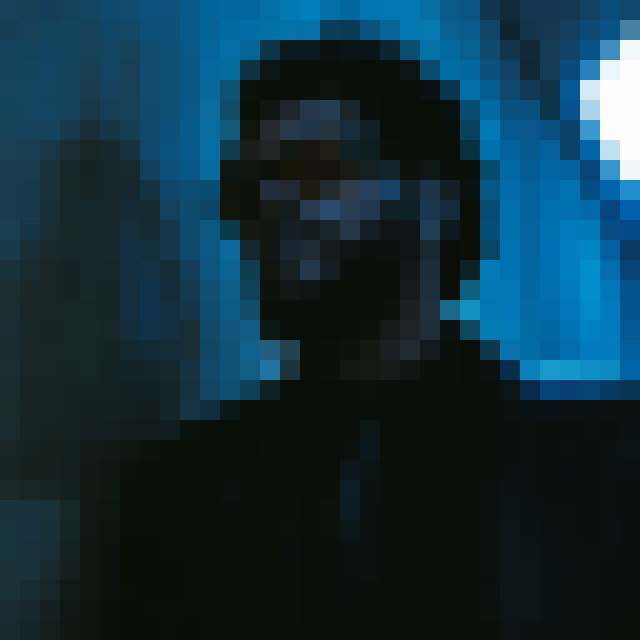
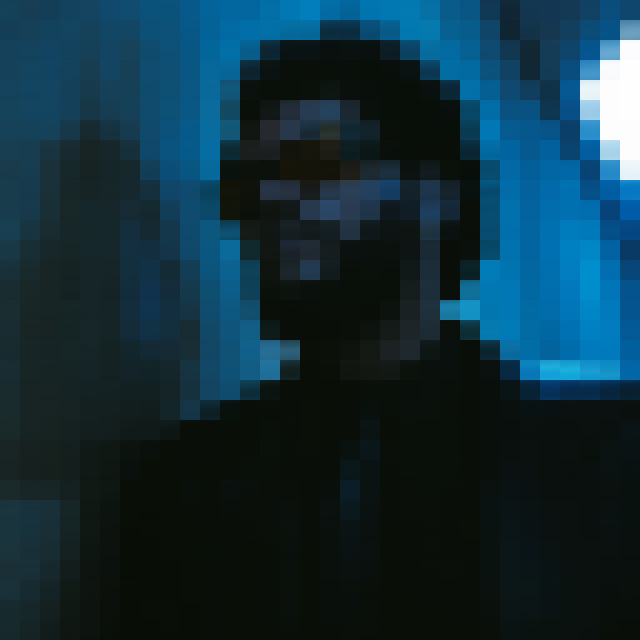
Added different way to process image, optimized image processing calculations.

diff --git a/src/img/processor.cpp b/src/img/processor.cpp
@@ -1,22 +1,40 @@
 
-#include "img/process.h"
+#include "img/processor.h"
 #include "img/utility.h"
 
 namespace img {
 
-    process::process(const std::string &filepath) : im(filepath) {
+    // Global functions.
+    [[nodiscard]] inline std::string get_output_directory() {
+        static std::string output_directory = convert_to_native_separators("assets/generated");
+        return output_directory; // Copy.
     }
 
-    process::process(const image &im) : im(im) {
+    [[nodiscard]] inline glm::vec4 get_average_color(const image& im, int x, int y, int x_resolution, int y_resolution) {
+        glm::vec4 data(0.0f);
+
+        // Average values in one "pixel".
+        for (int j = 0; j < y_resolution; ++j) {
+            for (int i = 0; i < x_resolution; ++i) {
+                data += im.get_pixel(x + i, y + j);
+            }
+        }
+        data /= (float) (x_resolution * y_resolution);
+
+        return data;
     }
 
-    process::~process() = default;
 
-    image process::get() const {
+    processor::processor(const image &im) : im(im) {
+    }
+
+    processor::~processor() = default;
+
+    image processor::get() const {
         return im;
     }
 
-    process &process::to_grayscale() {
+    processor &processor::to_grayscale() {
         // Luminosity constants.
         static const float r_weight = 0.299f;
         static const float g_weight = 0.587f;
@@ -45,72 +63,78 @@ namespace img {
         return *this;
     }
 
-    process &process::to_lower_resolution(int rows, int columns) {
+    processor &processor::to_lower_resolution(int x_resolution, int y_resolution) {
         int width = im.width;
         int height = im.height;
         int channels = im.channels;
 
-
         // Invalid dimensions.
-        if (rows < 0 || columns < 0) {
+        if (x_resolution < 0 || y_resolution < 0) {
             std::cerr << "Invalid image dimensions passed to to_lower_resolution()." << std::endl;
             return *this;
         }
 
-        for (int y = 0; y <= height - columns; y += columns) {
-            for (int x = 0; x <= width - rows; x += rows) {
+        glm::vec4 data;
+
+        for (int y = 0; y <= height - y_resolution; y += y_resolution) {
+            for (int x = 0; x <= width - x_resolution; x += x_resolution) {
+                data = get_average_color(im, x, y, x_resolution, y_resolution);
+
                 // Fill pixel data to be the same color.
-                for (int j = 0; j < columns; ++j) {
-                    for (int i = 0; i < rows; ++i) {
-                        im.set_pixel(x + i, y + j, get_average_color(x, y, rows, columns));
+                for (int j = 0; j < y_resolution; ++j) {
+                    for (int i = 0; i < x_resolution; ++i) {
+                        im.set_pixel(x + i, y + j, data);
                     }
                 }
             }
         }
 
         // In case resolution didn't divide evenly.
-        int x_remainder = width % rows;
-        int y_remainder = height % columns;
+        int x_remainder = width % x_resolution;
+        int y_remainder = height % y_resolution;
 
         // Right side of image.
-        for (int y = 0; y < height - columns; y += columns) {
+        for (int y = 0; y < height - y_resolution; y += y_resolution) {
+            data = get_average_color(im, width - x_remainder, y, x_remainder, y_resolution);
+
             // Fill pixel data to be the same color.
-            for (int j = 0; j < columns; ++j) {
+            for (int j = 0; j < y_resolution; ++j) {
                 for (int i = 0; i < x_remainder; ++i) {
-                    im.set_pixel(width - x_remainder + i, y + j,
-                                 get_average_color(width - x_remainder, y, rows, columns));
+                    im.set_pixel(width - x_remainder + i, y + j, data);
                 }
             }
         }
 
         // Bottom side of image.
-        for (int x = 0; x < width - rows; x += rows) {
+        for (int x = 0; x < width - x_resolution; x += x_resolution) {
+            data = get_average_color(im, x, height - y_remainder, x_resolution, y_remainder);
+
             // Fill pixel data to be the same color.
             for (int j = 0; j < y_remainder; ++j) {
-                for (int i = 0; i < rows; ++i) {
-                    im.set_pixel(x + i, height - y_remainder + j,
-                                 get_average_color(x, height - y_remainder, rows, columns));
+                for (int i = 0; i < x_resolution; ++i) {
+                    im.set_pixel(x + i, height - y_remainder + j, data);
                 }
             }
         }
 
         // Bottom right corner.
+        data = get_average_color(im, width - x_remainder, height - y_remainder, x_remainder, y_remainder);
+
+        // Fill pixel data to be the same color.
         for (int j = 0; j < y_remainder; ++j) {
             for (int i = 0; i < x_remainder; ++i) {
-                im.set_pixel(width - x_remainder + i, height - y_remainder + j,
-                             get_average_color(width - x_remainder, height - y_remainder, rows, columns));
+                im.set_pixel(width - x_remainder + i, height - y_remainder + j, data);
             }
         }
 
         // Update naming.
-        std::string filename = get_output_directory() + "/" + im.file.name + '_' + std::to_string(rows) + 'x' +
-                               std::to_string(columns) + "px" + '.' + im.file.extension;
+        std::string filename = get_output_directory() + "/" + im.file.name + '_' + std::to_string(x_resolution) + 'x' + std::to_string(y_resolution) + "px" + '.' + im.file.extension;
         im.file = file_data(filename);
 
         return *this;
     }
 
-    std::string process::to_ascii(int resolution) {
+    std::string processor::to_ascii(int resolution) {
         int width = im.width;
         int height = im.height;
 
@@ -119,9 +143,9 @@ namespace img {
         std::size_t num_characters = sequence.size();
         std::string ascii;
 
-        process copy = *this;
+        processor copy = *this;
 
-        image lower_resolution_image = process(im).to_lower_resolution(resolution, resolution).get();
+        image lower_resolution_image = processor(im).to_lower_resolution(resolution, resolution).get();
 
         for (int y = 0; y < height; y += 2 * resolution) {
             for (int x = 0; x < width; x += resolution) {
@@ -136,7 +160,7 @@ namespace img {
         return ascii;
     }
 
-    process &process::k_means(int k) {
+    processor &processor::k_means(int k) {
         int width = im.width;
         int height = im.height;
 
@@ -155,25 +179,6 @@ namespace img {
             int index = random(0, static_cast<int>(unique_colors.size()));
             centroids.emplace_back(*std::next(unique_colors.begin(), index));
         }
-    }
-
-    std::string process::get_output_directory() const {
-        static std::string output_directory = convert_to_native_separators("assets/generated");
-        return output_directory; // Copy.
-    }
-
-    glm::vec4 process::get_average_color(int x, int y, int rows, int columns) const {
-        glm::vec4 data(0.0f);
-
-        // Average pixels in one "pixel".
-        for (int j = 0; j < columns; ++j) {
-            for (int i = 0; i < rows; ++i) {
-                data += im.get_pixel(x + i, y + j);
-            }
-        }
-        data /= (float) (rows * columns);
-
-        return data;
     }
 
 }

diff --git a/lib/stb/stb_image.h b/lib/stb/stb_image.h
@@ -133,7 +133,7 @@ RECENT REVISION HISTORY:
 // Basic usage (see HDR discussion below for HDR usage):
 //    int x,y,n;
 //    unsigned char *data = stbi_load(filename, &x, &y, &n, 0);
-//    // ... process data if not NULL ...
+//    // ... processor data if not NULL ...
 //    // ... x = width, y = height, n = # 8-bit components per pixel ...
 //    // ... replace '0' with '1'..'4' to force that many components per pixel
 //    // ... but 'n' will always be the number that it would have been if you said 0
@@ -479,7 +479,7 @@ STBIDEF int      stbi_is_16_bit_from_file(FILE *f);
 // unpremultiplication. results are undefined if the unpremultiply overflow.
 STBIDEF void stbi_set_unpremultiply_on_load(int flag_true_if_should_unpremultiply);
 
-// indicate whether we should process iphone images back to canonical format,
+// indicate whether we should processor iphone images back to canonical format,
 // or just pass them through "as-is"
 STBIDEF void stbi_convert_iphone_png_to_rgb(int flag_true_if_should_convert);
 
@@ -2880,7 +2880,7 @@ static int stbi__parse_entropy_coded_data(stbi__jpeg *z)
          int i,j;
          STBI_SIMD_ALIGN(short, data[64]);
          int n = z->order[0];
-         // non-interleaved data, we just need to process one block at a time,
+         // non-interleaved data, we just need to processor one block at a time,
          // in trivial scanline order
          // number of blocks to do just depends on how many actual "pixels" this
          // component has, independent of interleaved MCU blocking and such
@@ -2907,7 +2907,7 @@ static int stbi__parse_entropy_coded_data(stbi__jpeg *z)
          STBI_SIMD_ALIGN(short, data[64]);
          for (j=0; j < z->img_mcu_y; ++j) {
             for (i=0; i < z->img_mcu_x; ++i) {
-               // scan an interleaved mcu... process scan_n components in order
+               // scan an interleaved mcu... processor scan_n components in order
                for (k=0; k < z->scan_n; ++k) {
                   int n = z->order[k];
                   // scan out an mcu's worth of this component; that's just determined
@@ -2937,7 +2937,7 @@ static int stbi__parse_entropy_coded_data(stbi__jpeg *z)
       if (z->scan_n == 1) {
          int i,j;
          int n = z->order[0];
-         // non-interleaved data, we just need to process one block at a time,
+         // non-interleaved data, we just need to processor one block at a time,
          // in trivial scanline order
          // number of blocks to do just depends on how many actual "pixels" this
          // component has, independent of interleaved MCU blocking and such
@@ -2967,7 +2967,7 @@ static int stbi__parse_entropy_coded_data(stbi__jpeg *z)
          int i,j,k,x,y;
          for (j=0; j < z->img_mcu_y; ++j) {
             for (i=0; i < z->img_mcu_x; ++i) {
-               // scan an interleaved mcu... process scan_n components in order
+               // scan an interleaved mcu... processor scan_n components in order
                for (k=0; k < z->scan_n; ++k) {
                   int n = z->order[k];
                   // scan out an mcu's worth of this component; that's just determined
@@ -3437,7 +3437,7 @@ static stbi_uc *stbi__resample_row_hv_2_simd(stbi_uc *out, stbi_uc *in_near, stb
    }
 
    t1 = 3*in_near[0] + in_far[0];
-   // process groups of 8 pixels for as long as we can.
+   // processor groups of 8 pixels for as long as we can.
    // note we can't handle the last pixel in a row in this loop
    // because we need to handle the filter boundary conditions.
    for (; i < ((w-1) & ~7); i += 8) {

diff --git a/src/img/image.cpp b/src/img/image.cpp
@@ -1,6 +1,7 @@
 
 #include "img/image.h"
 #include "img/utility.h"
+#include "img/processor.h"
 
 #define FULL_QUALITY 100
 
@@ -21,7 +22,7 @@ namespace img {
         }
 
         // Print image information.
-        std::cout << "Reading in image: " << file.name + '.' + file.extension << std::endl;
+        std::cout << "Asset: " << file.name + '.' + file.extension << std::endl;
         std::cout << "Width: " << width << std::endl;
         std::cout << "Height: " << height << std::endl;
         std::cout << "Channels: " << channels << ' ';
@@ -46,7 +47,7 @@ namespace img {
                                        height(other.height),
                                        channels(other.channels),
                                        data(nullptr),
-                                       stb_allocated(other.stb_allocated)
+                                       stb_allocated(false) // Deep copy happened, don't free with stb.
                                        {
         // Deep copy data.
         data = new unsigned char[width * height * channels];
@@ -62,7 +63,7 @@ namespace img {
         width = other.width;
         height = other.height;
         channels = other.channels;
-        stb_allocated = other.stb_allocated;
+        stb_allocated = false; // Deep copy happened, don't free with stb.
 
         // Deep copy data.
         data = new unsigned char[width * height * channels];
@@ -114,6 +115,10 @@ namespace img {
         else {
             std::cerr << "Invalid extension." << std::endl;
         }
+    }
+
+    processor image::process() const {
+        return img::processor(*this);
     }
 
 }

diff --git a/include/img/processor.h b/include/img/processor.h
@@ -1,0 +1,40 @@
+
+#ifndef IMG_PROCESSOR_H
+#define IMG_PROCESSOR_H
+
+#include "img.h"
+#include "image.h"
+
+namespace img {
+
+    // Processor stores its own image, all processes operate on the local copy.
+    // Allows for chaining of image processing.
+    class processor {
+        public:
+            // Deep copies image, original image passed is not modified.
+            explicit processor(const image& im);
+            ~processor();
+
+            // Creates copy.
+            [[nodiscard]] image get() const;
+
+            // Utility functions.
+            [[nodiscard]] processor& to_grayscale();
+            [[nodiscard]] processor& to_lower_resolution(int x_resolution = 1, int y_resolution = 1);
+
+            // Image processing functions.
+            // Convert the image to ascii characters.
+            //   resolution - pixels per letter
+            [[nodiscard]] std::string to_ascii(int resolution = 20);
+
+            // Convert the image via the k-means clustering algorithm.
+            //   k - number of clusters
+            [[nodiscard]] processor& k_means(int k);
+
+        private:
+            image im;
+    };
+
+}
+
+#endif //IMG_PROCESSOR_H

diff --git a/src/main.cpp b/src/main.cpp
@@ -2,7 +2,7 @@
 #include <iostream>
 
 #include "img/image.h"
-#include "img/process.h"
+#include "img/processor.h"
 
 void usage() {
     std::cout << "img [options]" << std::endl;
@@ -22,7 +22,8 @@ int main(int argc, char* argv[]) {
     }
 
     img::image image(argv[1]);
-    img::process(image).to_grayscale().to_lower_resolution(20, 20).get().save();
+    img::processor(image).to_grayscale().to_lower_resolution(20, 20).get().save();
+    image.process().to_lower_resolution(30, 30).get().save();
 
     return 0;
 }

diff --git a/include/img/image.h b/include/img/image.h
@@ -8,6 +8,9 @@
 
 namespace img {
 
+    // Forward declaration.
+    class processor;
+
     class image {
         public:
             explicit image(const std::string& filepath);
@@ -23,8 +26,10 @@ namespace img {
 
             void save() const;
 
+            [[nodiscard]] processor process() const;
+
         private:
-            friend class process;
+            friend class processor;
 
             file_data file;
             int width;
